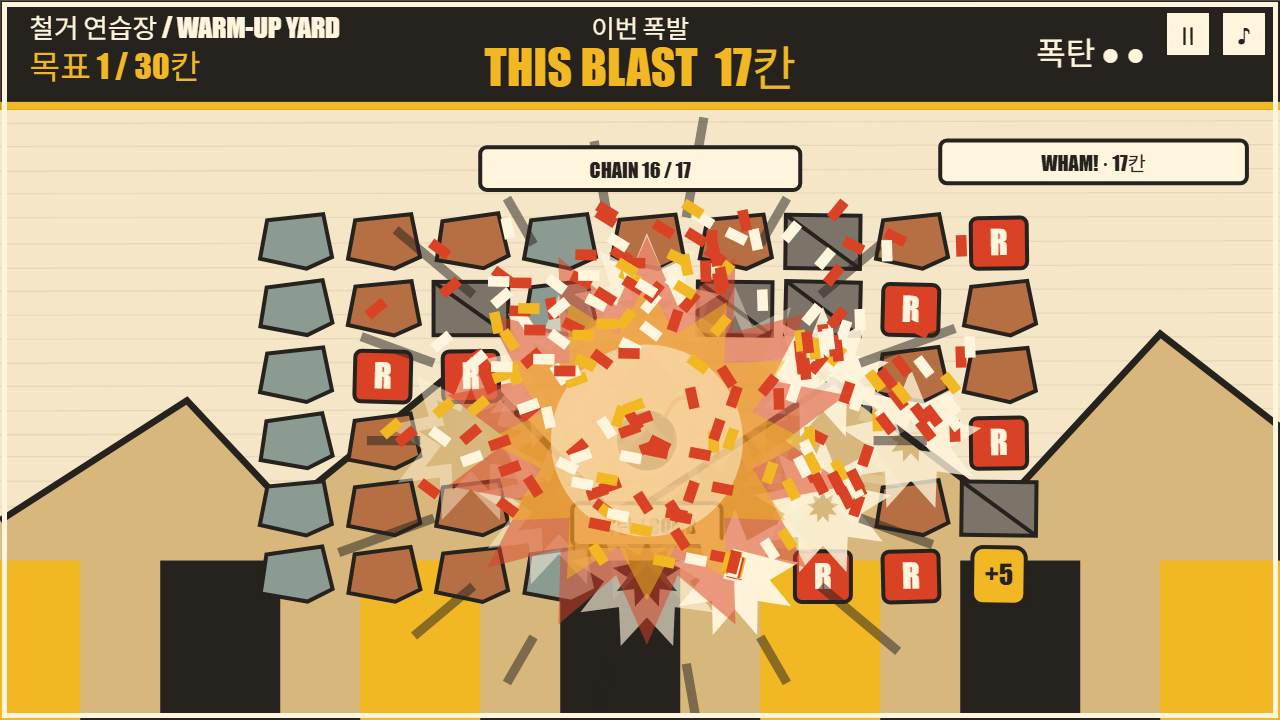
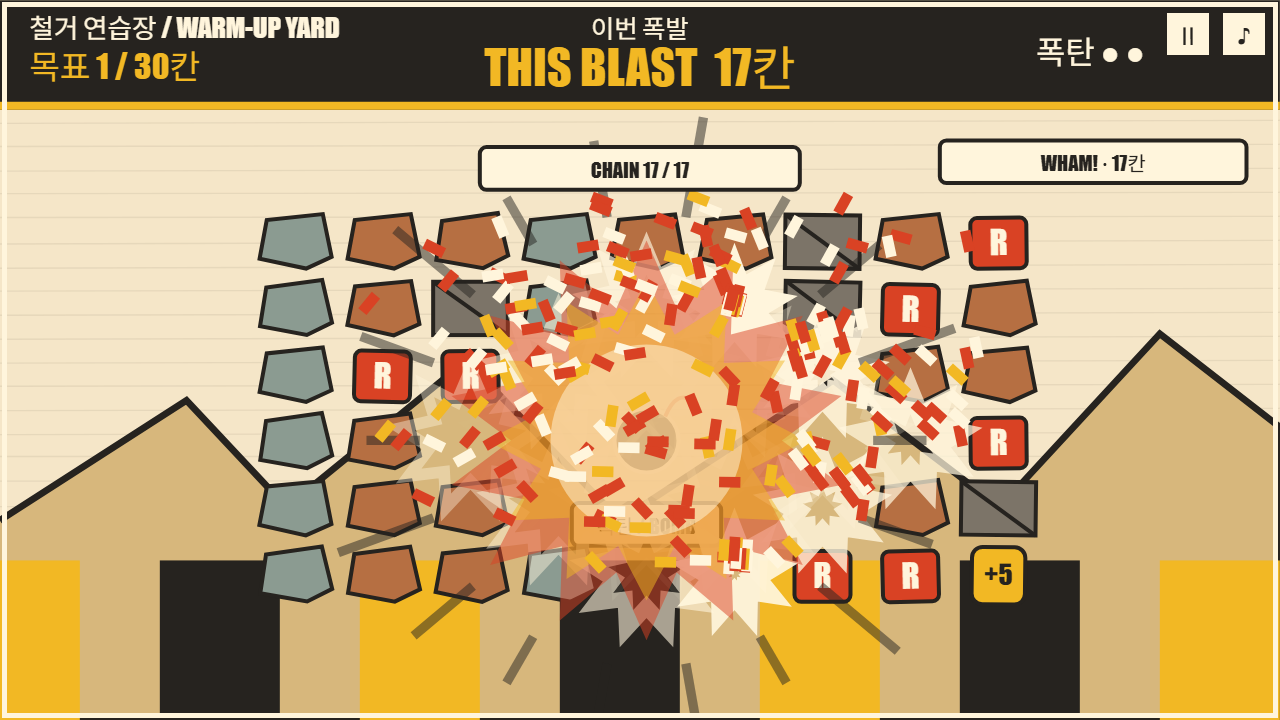
fix: keep mobile title inside viewport

diff --git a/styles.css b/styles.css
@@ -5,7 +5,7 @@ canvas{display:block;width:100%;height:100%;outline:none;background:var(--paper)
 #topbar{position:absolute;z-index:5;top:max(10px,env(safe-area-inset-top));right:max(12px,env(safe-area-inset-right));display:flex;gap:8px}
 #topbar button{width:48px;height:48px;border:3px solid var(--ink);background:var(--cream);color:var(--ink);font:24px Impact;box-shadow:4px 4px 0 var(--ink);cursor:pointer}#topbar button[aria-pressed=true]{background:var(--yellow);transform:translate(2px,2px);box-shadow:2px 2px 0 var(--ink)}
 .panel{position:absolute;z-index:4;inset:7% 13%;display:flex;flex-direction:column;align-items:center;justify-content:center;text-align:center;background:rgba(245,230,200,.95);border:5px solid var(--ink);box-shadow:12px 12px 0 rgba(38,35,31,.85);transform:rotate(-.4deg);padding:24px}.panel[hidden]{display:none}.panel.compact{inset:25% 25%}.warning-tape{position:absolute;top:0;left:0;right:0;padding:8px;background:repeating-linear-gradient(135deg,var(--yellow) 0 25px,var(--ink) 25px 42px);color:var(--cream);text-shadow:2px 2px var(--ink);font:16px/1.2 "Arial Black";letter-spacing:1px}.eyebrow{margin:22px 0 0;font:clamp(14px,2vw,22px) "Arial Black";letter-spacing:2px}.panel h1{margin:0;font-size:clamp(72px,14vw,150px);line-height:.85;letter-spacing:-8px;transform:skew(-5deg)}.panel h1 span:first-child{color:var(--yellow);-webkit-text-stroke:4px var(--ink);text-shadow:7px 7px var(--ink)}.panel h1 span:last-child{color:var(--red);-webkit-text-stroke:4px var(--ink);text-shadow:7px 7px var(--ink)}.english{margin:12px 0;font-size:clamp(18px,3vw,34px);letter-spacing:5px}.equation{display:flex;align-items:center;gap:18px;margin:5px 0 18px;padding:10px 20px;border:3px solid var(--ink);background:var(--cream);font-size:clamp(14px,2vw,22px)}.equation i{color:var(--red);font-size:32px}.big-button{border:4px solid var(--ink);background:var(--red);color:white;padding:12px 28px;font:clamp(20px,3vw,32px) Impact,"Arial Black";letter-spacing:1px;box-shadow:7px 7px 0 var(--ink);cursor:pointer}.big-button:hover,.big-button:focus-visible{background:var(--red2);transform:translate(-2px,-2px);box-shadow:10px 10px 0 var(--ink);outline:3px solid white}.big-button small{font:13px Arial}.hint{margin:14px 0 0;font:13px Arial,sans-serif}.panel h2{font-size:clamp(42px,8vw,88px);margin:0;color:var(--red);-webkit-text-stroke:2px var(--ink);text-shadow:5px 5px var(--ink)}.panel p{max-width:560px}.sr-only{position:absolute!important;width:1px!important;height:1px!important;padding:0!important;margin:-1px!important;overflow:hidden!important;clip:rect(0,0,0,0)!important;white-space:nowrap!important;border:0!important}
-@media(max-aspect-ratio:1/1){#game-shell{width:100vw;height:100vh;min-height:0}.panel{inset:8% 5%;padding:16px}.panel h1{font-size:min(25vw,130px);letter-spacing:-5px}.equation{flex-direction:column;gap:2px;padding:8px 24px}.equation i{transform:rotate(90deg);line-height:.6}.warning-tape{font-size:11px}.panel.compact{inset:25% 8%}}
+@media(max-aspect-ratio:1/1){#game-shell{width:100vw;height:100vh;min-height:0}.panel{inset:8% 5%;padding:16px}.panel h1{max-width:100%;font-size:min(20vw,104px);letter-spacing:-3px;white-space:nowrap}.english{font-size:clamp(16px,5vw,24px);letter-spacing:3px}.equation{flex-direction:column;gap:2px;padding:8px 24px}.equation i{transform:rotate(90deg);line-height:.6}.warning-tape{font-size:11px}.panel.compact{inset:25% 8%}}
 @media(max-height:430px){.panel{inset:3% 10%;padding:8px}.warning-tape{padding:4px}.eyebrow{display:none}.panel h1{font-size:65px}.english{margin:4px}.equation{margin:2px 0 7px;padding:4px 12px}.hint{display:none}.big-button{padding:7px 20px}.panel h2{font-size:44px}}
 @media(prefers-reduced-motion:reduce){*{scroll-behavior:auto!important}.panel{transform:none}}
 #result-stats{width:min(620px,92%);margin:8px 0 18px;padding:10px 16px;border:4px solid var(--ink);background:var(--cream);box-shadow:6px 6px 0 var(--ink)}#result-stats p{margin:4px;font:clamp(15px,2.1vw,24px) Impact,"Arial Black"}#result-blast{color:var(--red)}
